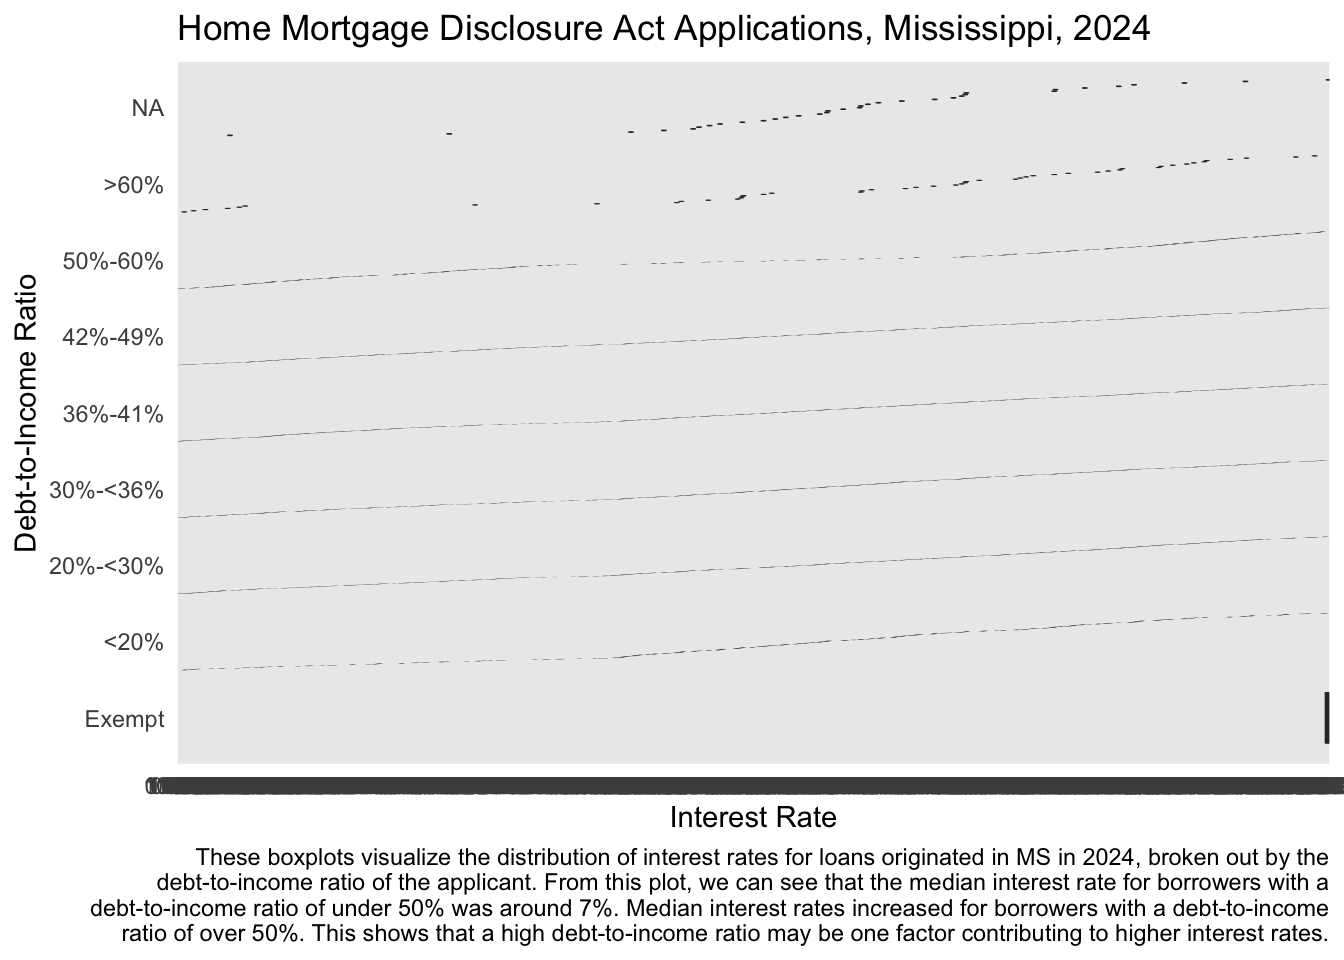
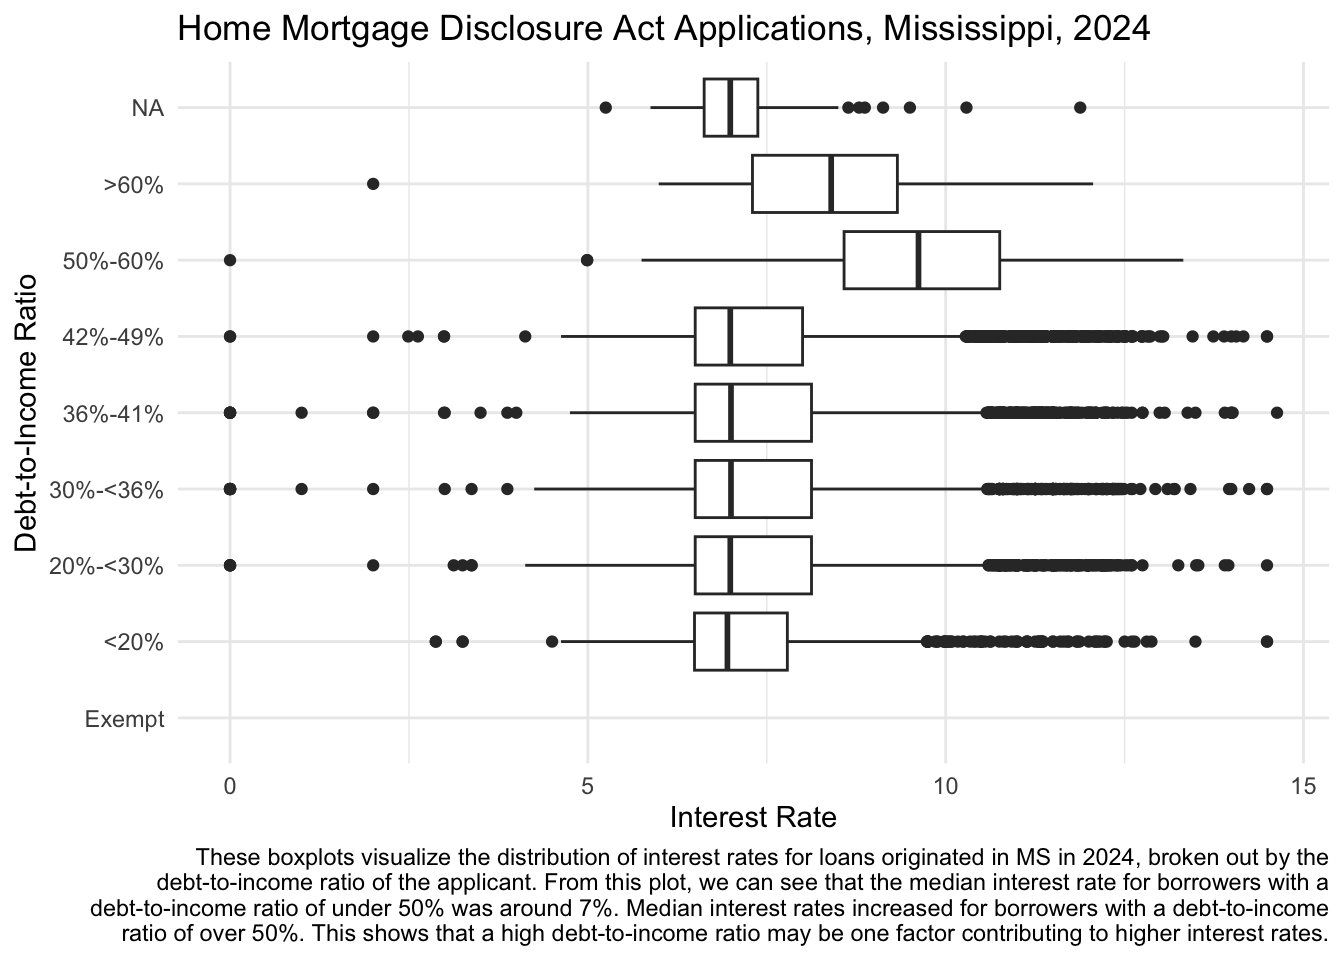
fixed lab 3 plot issue

diff --git a/docs/labs/lab3.html b/docs/labs/lab3.html
@@ -642,15 +642,26 @@ Tip
 </div>
 <div class="cell">
 <div class="sourceCode cell-code" id="cb15"><pre class="sourceCode r code-with-copy"><code class="sourceCode r"><span id="cb15-1"><a href="#cb15-1" aria-hidden="true" tabindex="-1"></a>hmda_ms_2024 <span class="sc">|&gt;</span></span>
-<span id="cb15-2"><a href="#cb15-2" aria-hidden="true" tabindex="-1"></a>  <span class="fu">filter</span>(action_taken <span class="sc">==</span> <span class="st">"Loan originated"</span>) <span class="sc">|&gt;</span></span>
-<span id="cb15-3"><a href="#cb15-3" aria-hidden="true" tabindex="-1"></a>  <span class="fu">ggplot</span>(<span class="fu">aes</span>(<span class="at">x =</span> debt_to_income_ratio, <span class="at">y =</span> interest_rate)) <span class="sc">+</span></span>
-<span id="cb15-4"><a href="#cb15-4" aria-hidden="true" tabindex="-1"></a>  <span class="fu">geom_boxplot</span>() <span class="sc">+</span></span>
-<span id="cb15-5"><a href="#cb15-5" aria-hidden="true" tabindex="-1"></a>  <span class="fu">coord_flip</span>() <span class="sc">+</span></span>
-<span id="cb15-6"><a href="#cb15-6" aria-hidden="true" tabindex="-1"></a>  <span class="fu">labs</span>(<span class="at">title =</span> <span class="st">"Home Mortgage Disclosure Act Applications, Mississippi, 2024"</span>,</span>
-<span id="cb15-7"><a href="#cb15-7" aria-hidden="true" tabindex="-1"></a>       <span class="at">x =</span> <span class="st">"Debt-to-Income Ratio"</span>,</span>
-<span id="cb15-8"><a href="#cb15-8" aria-hidden="true" tabindex="-1"></a>       <span class="at">y =</span> <span class="st">"Interest Rate"</span>,</span>
-<span id="cb15-9"><a href="#cb15-9" aria-hidden="true" tabindex="-1"></a>       <span class="at">caption =</span> <span class="fu">str_wrap</span>(<span class="st">"These boxplots visualize the distribution of interest rates for loans originated in MS in 2024, broken out by the debt-to-income ratio of the applicant. From this plot, we can see that the median interest rate for borrowers with a debt-to-income ratio of under 50% was around 7%. Median interest rates increased for borrowers with a debt-to-income ratio of over 50%. This shows that a high debt-to-income ratio may be one factor contributing to higher interest rates."</span>,<span class="at">width =</span> <span class="dv">120</span>)) <span class="sc">+</span></span>
-<span id="cb15-10"><a href="#cb15-10" aria-hidden="true" tabindex="-1"></a>  <span class="fu">theme_minimal</span>() </span></code><button title="Copy to Clipboard" class="code-copy-button"><i class="bi"></i></button></pre></div>
+<span id="cb15-2"><a href="#cb15-2" aria-hidden="true" tabindex="-1"></a>  <span class="fu">mutate</span>(<span class="at">interest_rate =</span> <span class="fu">as.numeric</span>(interest_rate)) <span class="sc">|&gt;</span></span>
+<span id="cb15-3"><a href="#cb15-3" aria-hidden="true" tabindex="-1"></a>  <span class="fu">filter</span>(action_taken <span class="sc">==</span> <span class="st">"Loan originated"</span>) <span class="sc">|&gt;</span></span>
+<span id="cb15-4"><a href="#cb15-4" aria-hidden="true" tabindex="-1"></a>  <span class="fu">ggplot</span>(<span class="fu">aes</span>(<span class="at">x =</span> debt_to_income_ratio, <span class="at">y =</span> interest_rate)) <span class="sc">+</span></span>
+<span id="cb15-5"><a href="#cb15-5" aria-hidden="true" tabindex="-1"></a>  <span class="fu">geom_boxplot</span>() <span class="sc">+</span></span>
+<span id="cb15-6"><a href="#cb15-6" aria-hidden="true" tabindex="-1"></a>  <span class="fu">coord_flip</span>() <span class="sc">+</span></span>
+<span id="cb15-7"><a href="#cb15-7" aria-hidden="true" tabindex="-1"></a>  <span class="fu">labs</span>(<span class="at">title =</span> <span class="st">"Home Mortgage Disclosure Act Applications, Mississippi, 2024"</span>,</span>
+<span id="cb15-8"><a href="#cb15-8" aria-hidden="true" tabindex="-1"></a>       <span class="at">x =</span> <span class="st">"Debt-to-Income Ratio"</span>,</span>
+<span id="cb15-9"><a href="#cb15-9" aria-hidden="true" tabindex="-1"></a>       <span class="at">y =</span> <span class="st">"Interest Rate"</span>,</span>
+<span id="cb15-10"><a href="#cb15-10" aria-hidden="true" tabindex="-1"></a>       <span class="at">caption =</span> <span class="fu">str_wrap</span>(<span class="st">"These boxplots visualize the distribution of interest rates for loans originated in MS in 2024, broken out by the debt-to-income ratio of the applicant. From this plot, we can see that the median interest rate for borrowers with a debt-to-income ratio of under 50% was around 7%. Median interest rates increased for borrowers with a debt-to-income ratio of over 50%. This shows that a high debt-to-income ratio may be one factor contributing to higher interest rates."</span>,<span class="at">width =</span> <span class="dv">120</span>)) <span class="sc">+</span></span>
+<span id="cb15-11"><a href="#cb15-11" aria-hidden="true" tabindex="-1"></a>  <span class="fu">theme_minimal</span>() </span></code><button title="Copy to Clipboard" class="code-copy-button"><i class="bi"></i></button></pre></div>
+<div class="cell-output cell-output-stderr">
+<pre><code>Warning: There was 1 warning in `mutate()`.
+ℹ In argument: `interest_rate = as.numeric(interest_rate)`.
+Caused by warning:
+! NAs introduced by coercion</code></pre>
+</div>
+<div class="cell-output cell-output-stderr">
+<pre><code>Warning: Removed 16 rows containing non-finite outside the scale range
+(`stat_boxplot()`).</code></pre>
+</div>
 <div class="cell-output-display">
 <div>
 <figure class="figure">
